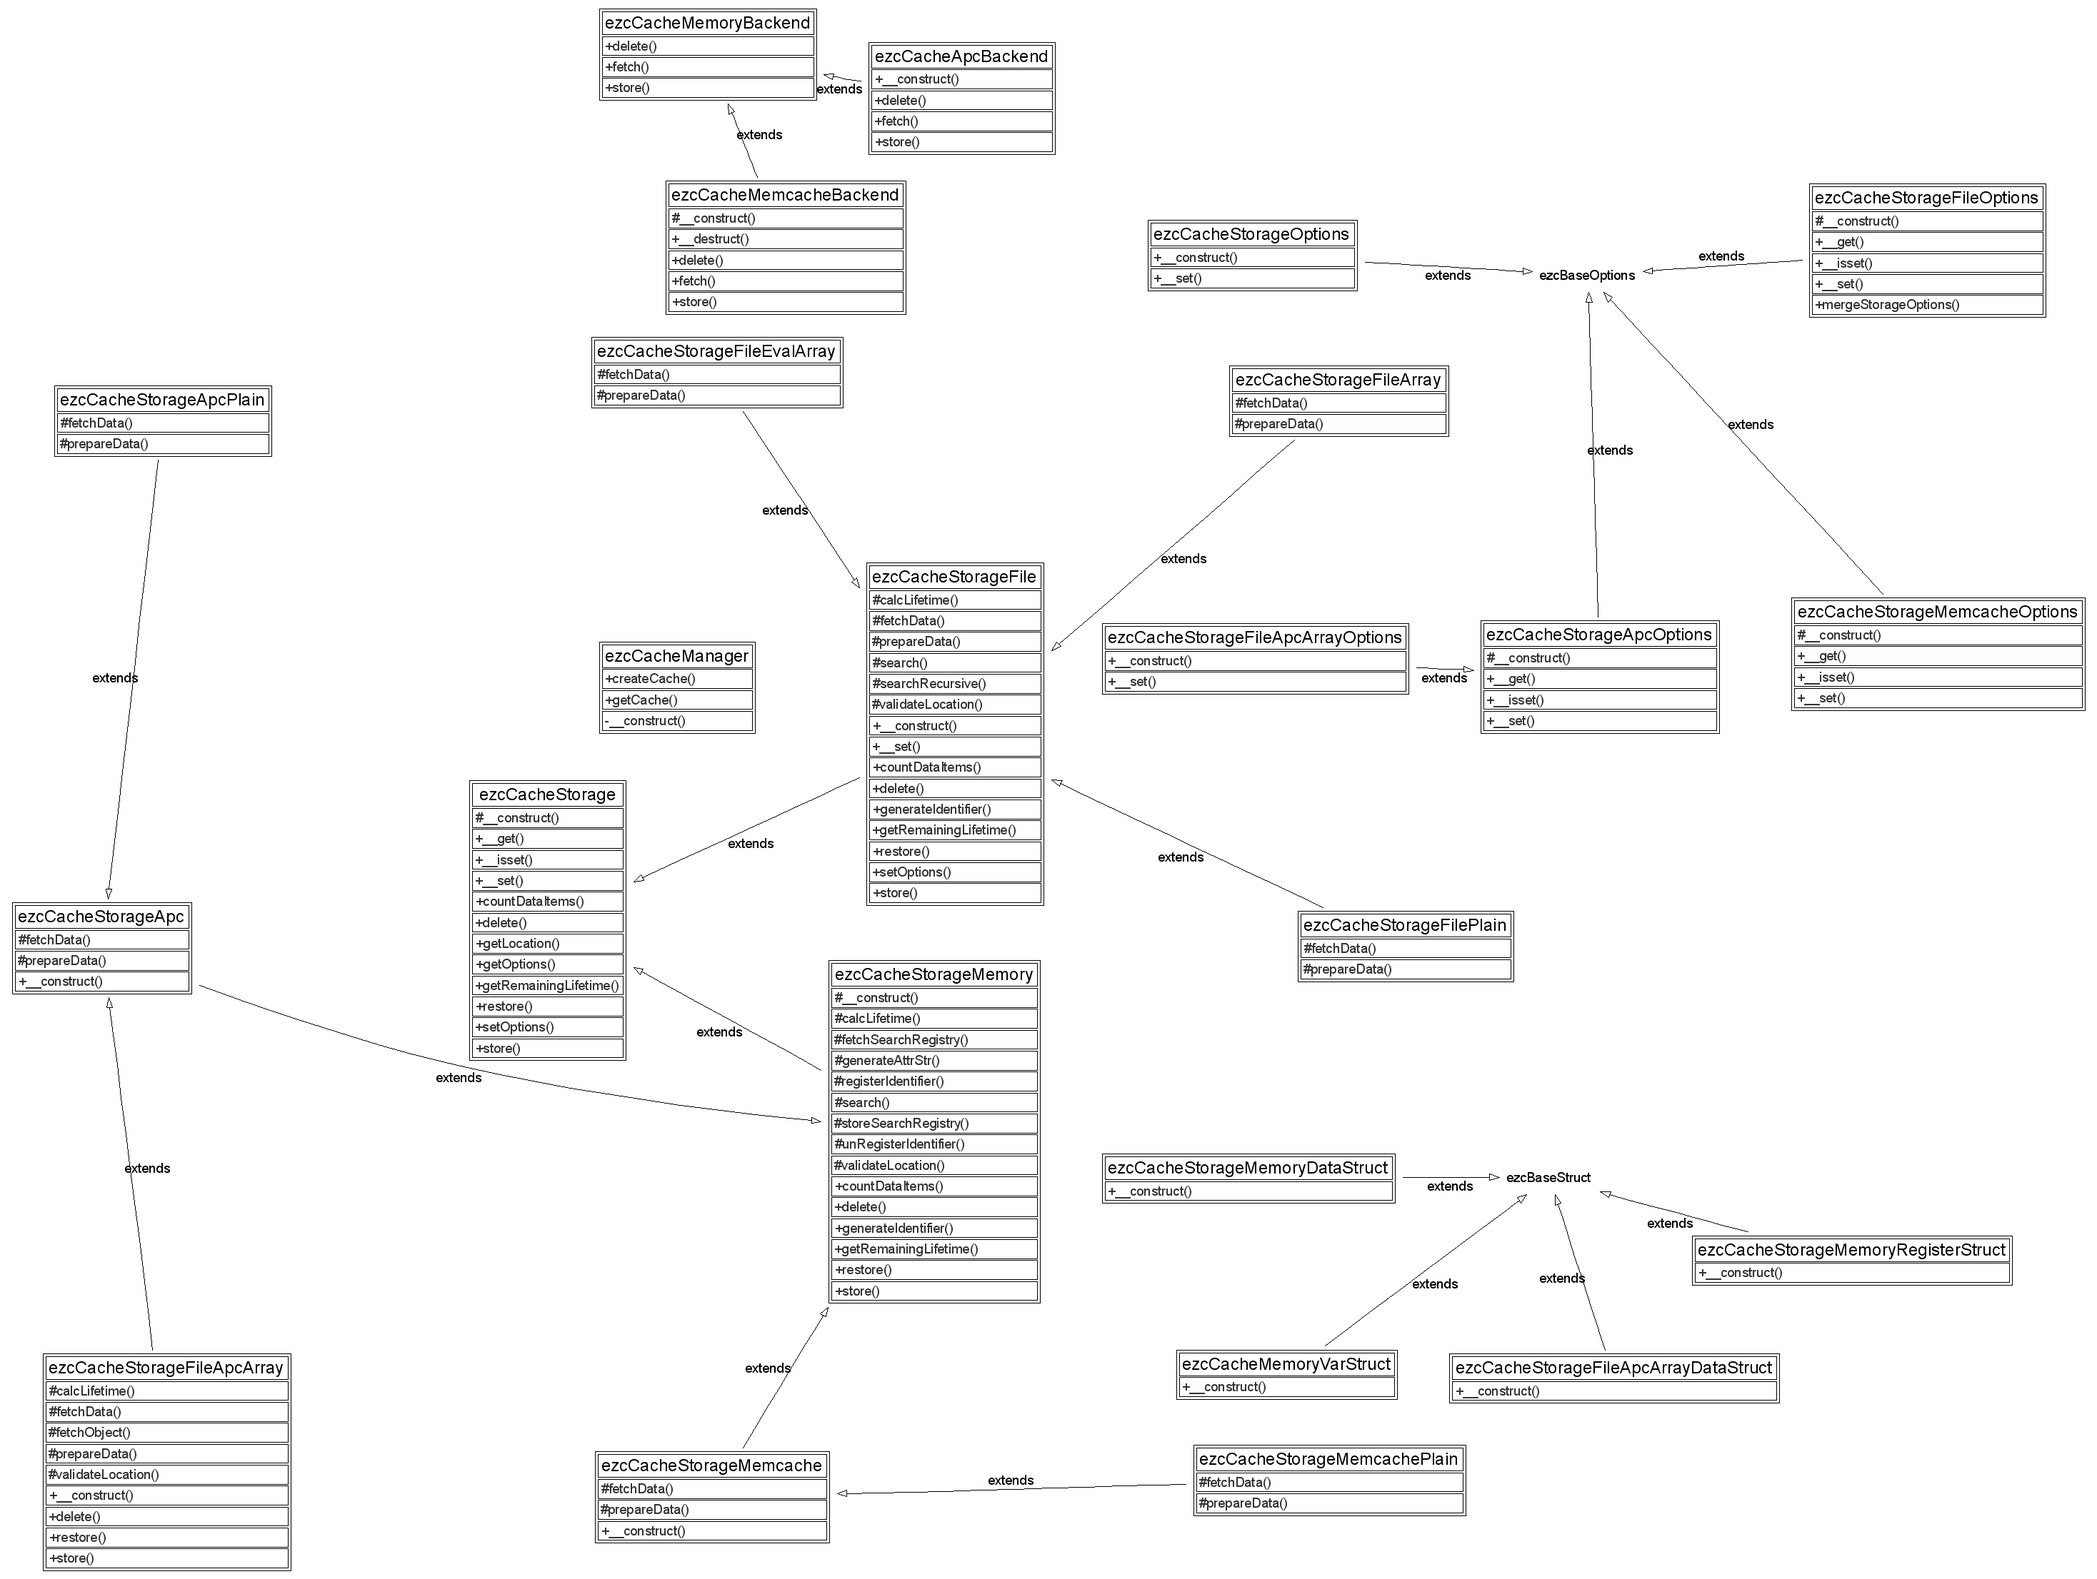
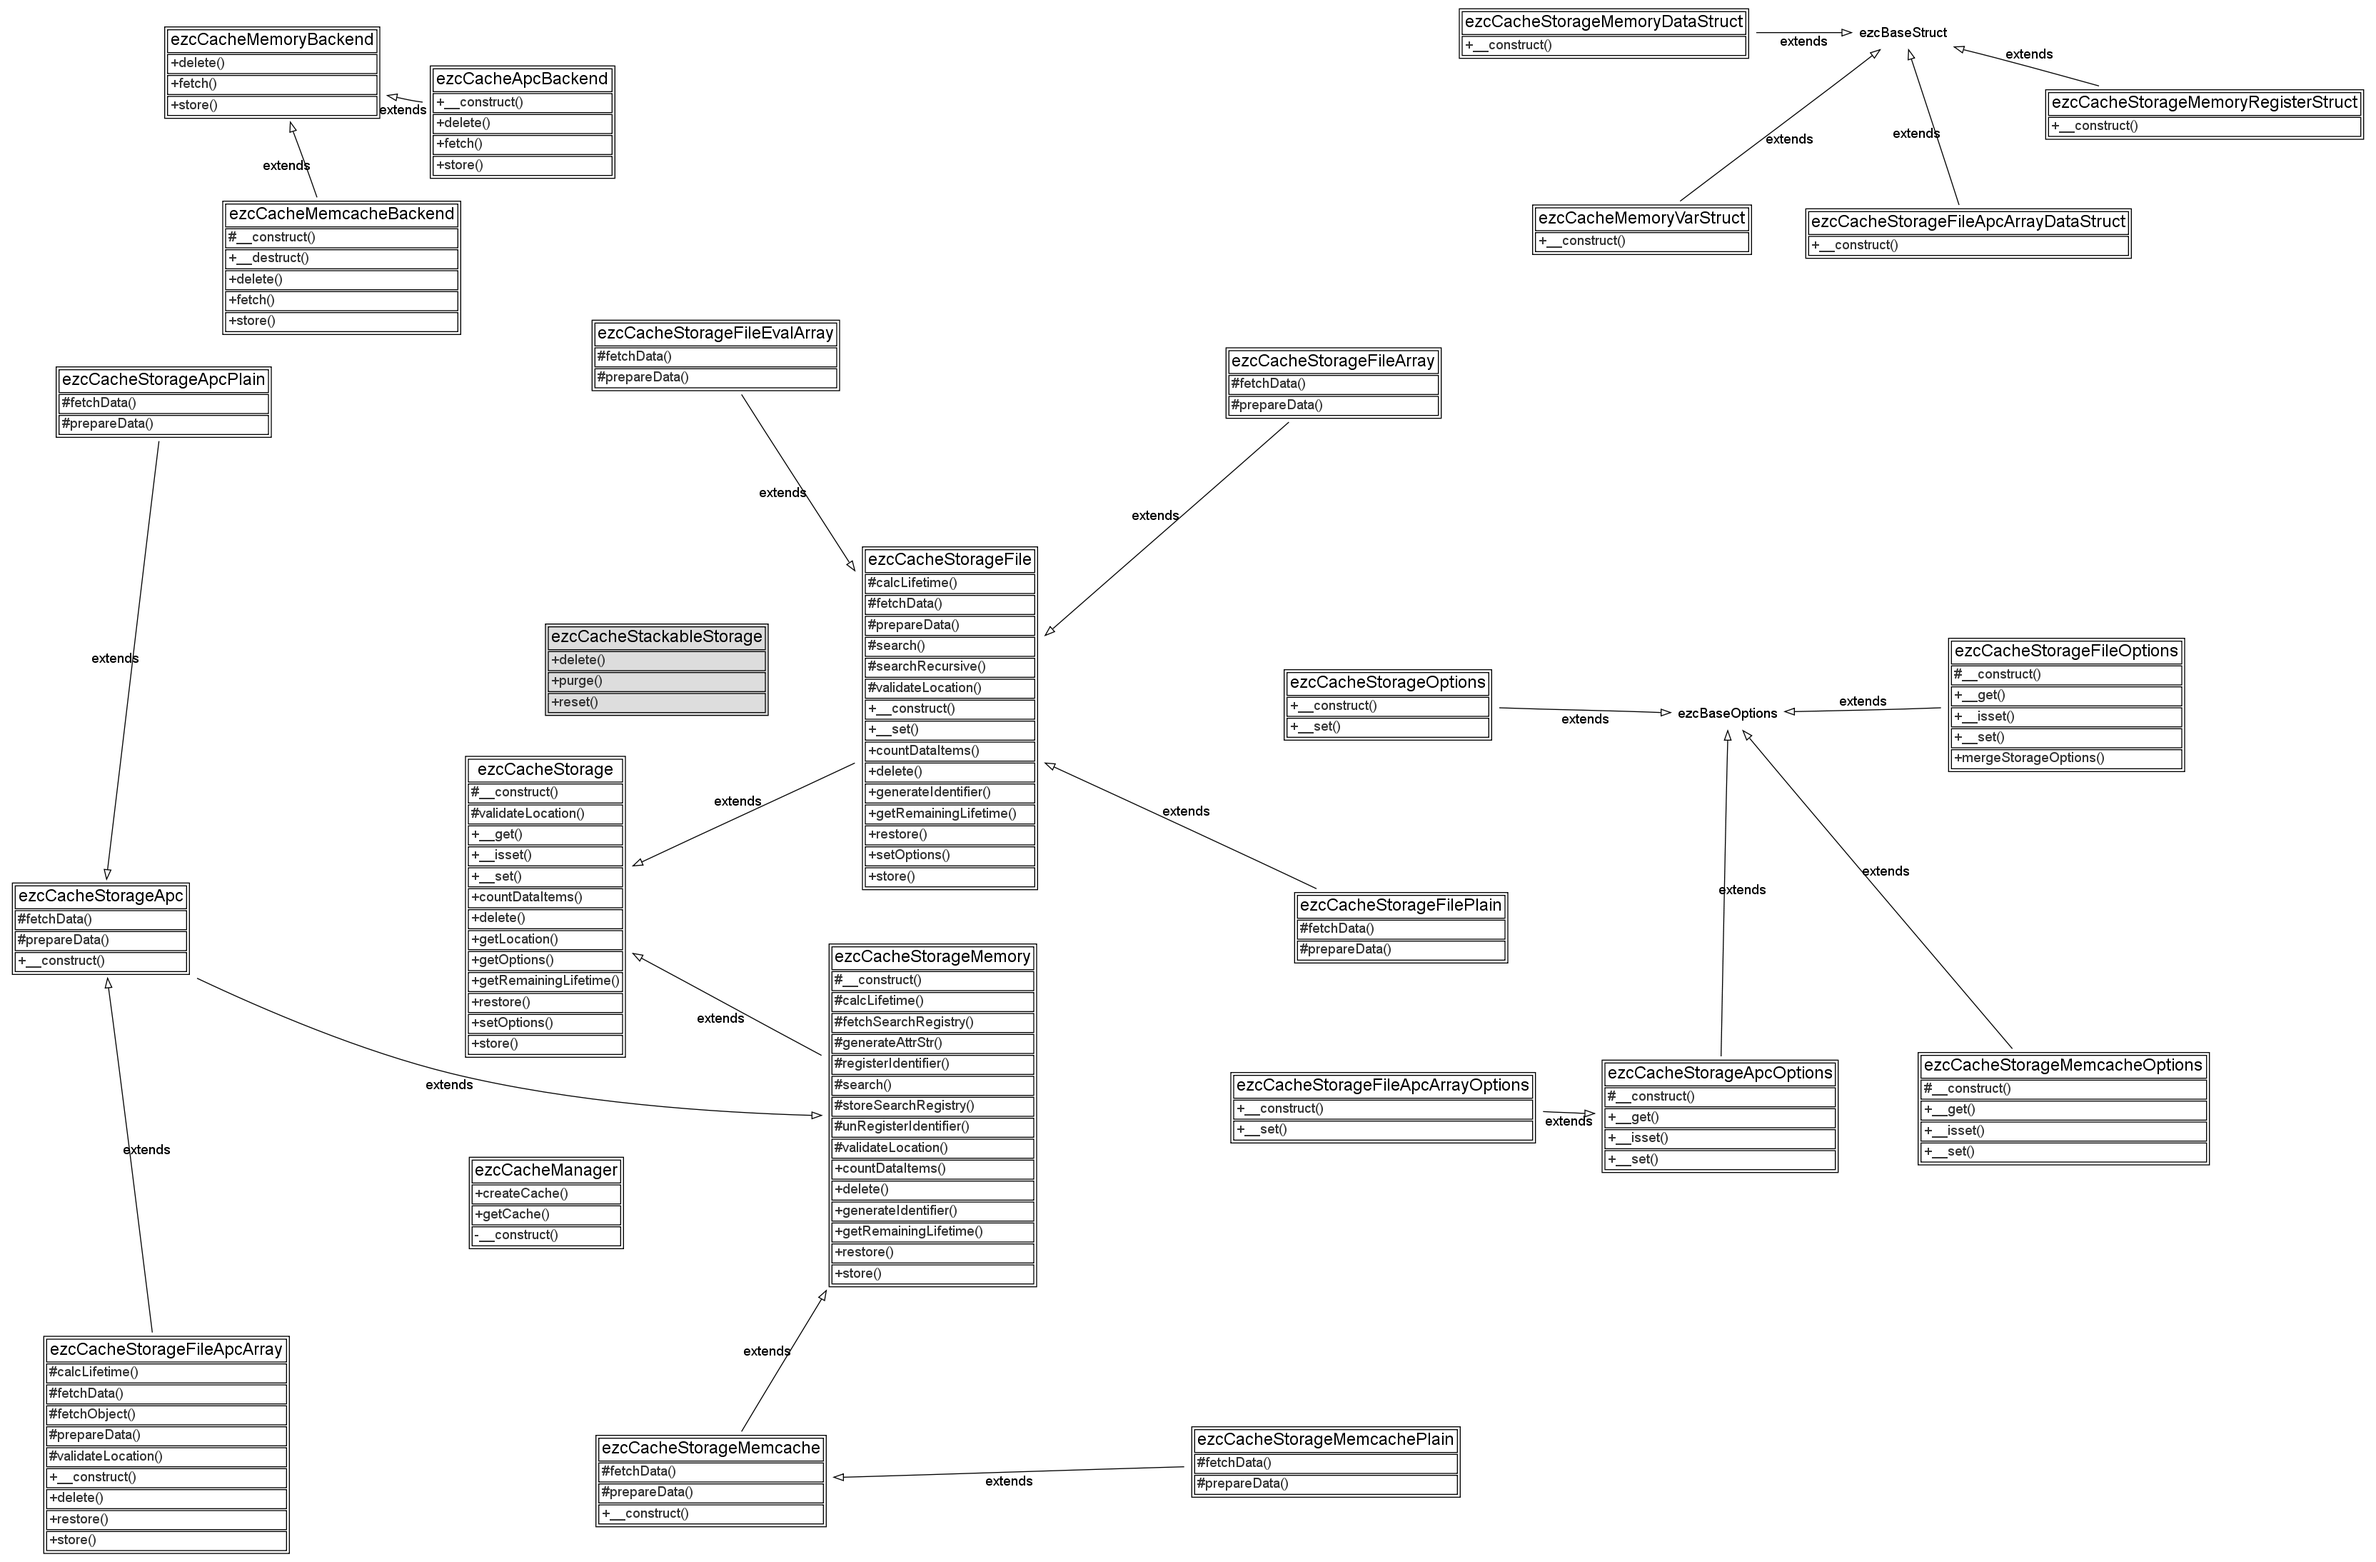
- Added interfaces/ directory. - Added interface ezcCacheStackableStorage.
git-svn-id: http://svn.ez.no/svn/ezcomponents/trunk@7683 bc0e7bdc-f0fc-0310-8ff6-f601c06e1256

diff --git a/Cache/src/interfaces/stackable_storage.php b/Cache/src/interfaces/stackable_storage.php
@@ -1,0 +1,66 @@
+<?php
+/**
+ * File containing the ezcCacheStackableStorage class.
+ *
+ * @package Cache
+ * @version //autogentag//
+ * @copyright Copyright (C) 2005-2008 eZ systems as. All rights reserved.
+ * @license http://ez.no/licenses/new_bsd New BSD License
+ * @filesource
+ */
+
+/**
+ * Interface for stackable storage classes.
+ * 
+ * This interface must be implemented by storages that can be combined into a
+ * {@link ezcCacheStack}.
+ *
+ * @package Cache
+ * @version //autogentag//
+ */
+interface ezcCacheStackableStorage
+{
+    /**
+     * Purge outdated data from the storage. 
+     * 
+     * This method purges outdated data from the cache. If $limit is given, a
+     * maximum of $limit items is purged. Otherwise all outdated items are
+     * purged. The method returns an array containing the IDs of all cache
+     * items that have been purged.
+     *
+     * @param int $limit 
+     * @return array(string)
+     */
+    public function purge( $limit = null );
+
+
+    /**
+     * Delete data from the cache.
+     *
+     * This method is already defined in {@link ezcCacheStorage::delete()}.
+     * However, the basic definition does not define a return value. If this
+     * interface is implemented, the method must return an array of item IDs
+     * that have been deleted from the storage.
+     *
+     * @param string $id
+     * @param array(string=>string)
+     * @param bool $search
+     *
+     * @return array(string)
+     */
+    public function delete( $id = null, $attributes = array(), $search = false );
+
+    /**
+     * Reset the complete storage.
+     *
+     * This method resets the complete cache storage. All content (including
+     * content stored with the {@link ezcCacheMetaDataStorage} interfacer) must
+     * be deleted and the cache storage must appear as if it has just newly
+     * been created.
+     * 
+     * @return void
+     */
+    public function reset();
+}
+
+?>

diff --git a/Cache/src/cache_autoload.php b/Cache/src/cache_autoload.php
@@ -28,6 +28,7 @@ return array(
     'ezcCacheManager'                       => 'Cache/manager.php',
     'ezcCacheMemcacheBackend'               => 'Cache/backends/memcache/memcache_backend.php',
     'ezcCacheMemoryVarStruct'               => 'Cache/structs/memory_var.php',
+    'ezcCacheStackableStorage'              => 'Cache/interfaces/stackable_storage.php',
     'ezcCacheStorageApcPlain'               => 'Cache/storage/apc/plain.php',
     'ezcCacheStorageFileApcArray'           => 'Cache/storage/apc/apc_array.php',
     'ezcCacheStorageFileApcArrayDataStruct' => 'Cache/structs/file_apc_array_data.php',
